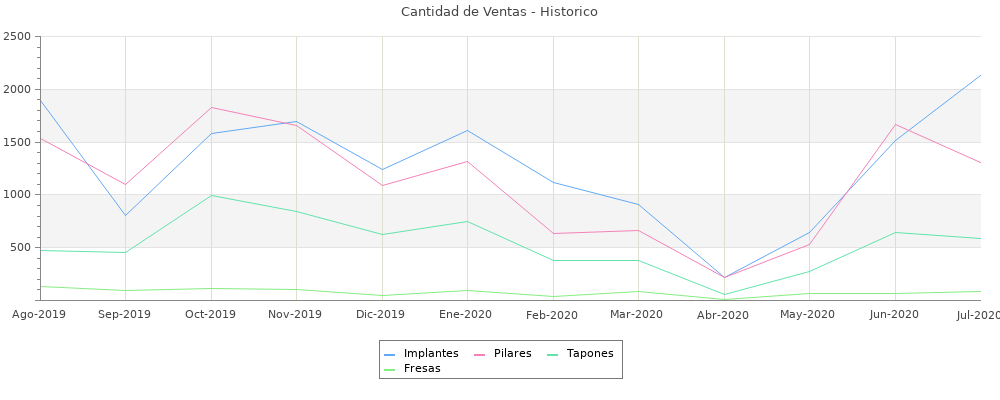
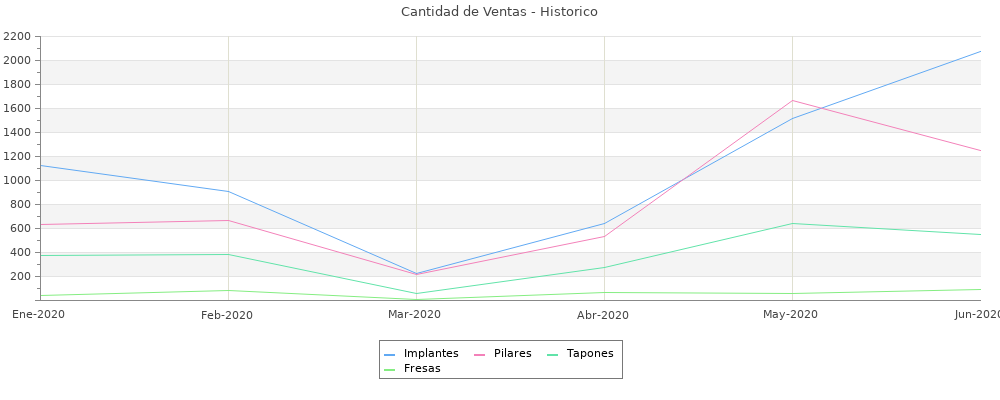
git-svn-id: file:///C/Users/yo/Documents/repositorio_svn_ondontopc/trunk@254 96c2d22d-f105-cb40-99ec-877b05c57555

diff --git a/web/css/cssmenu_b.css b/web/css/cssmenu_b.css
@@ -9,7 +9,8 @@
 		font-weight:bold;
 		width:100%;
 		background:#0087ca;
-		text-align: -webkit-center;
+		display: flex;
+		justify-content: center;		
 		}
 	#nav ul{
 		height:35px;

diff --git a/web/css/inicio.css b/web/css/inicio.css
@@ -77,7 +77,7 @@ header{
 	font-size: 1.3em;
 }
 
-.sf_admin_text{
+.sf_admin_text, .sf_admin_date {
 	font-size: 1.2em;
 }
 

diff --git a/apps/web/modules/listcob/actions/actions.class.php b/apps/web/modules/listcob/actions/actions.class.php
@@ -13,18 +13,18 @@ require_once dirname(__FILE__).'/../lib/listcobGeneratorHelper.class.php';
  */
 class listcobActions extends autoListcobActions
 {  
-  public function executeListImprimir(sfWebRequest $request){
-    $filtro = new ListadoCobrosFormFilter();
-    $consulta = $filtro->buildQuery($this->getFilters());
-    $listado = $consulta->execute();
+  // public function executeListImprimir(sfWebRequest $request){
+    // $filtro = new ListadoCobrosFormFilter();
+    // $consulta = $filtro->buildQuery($this->getFilters());
+    // $listado = $consulta->execute();
     
-    $dompdf = new DOMPDF();
-    $dompdf->load_html($this->getPartial("imprimir", array("listado" => $listado)));
-    $dompdf->set_paper('A4','landscape');
-    $dompdf->render();
-    $dompdf->stream("listado_cobros.pdf");    
-    return sfView::NONE;
-  }
+    // $dompdf = new DOMPDF();
+    // $dompdf->load_html($this->getPartial("imprimir", array("listado" => $listado)));
+    // $dompdf->set_paper('A4','landscape');
+    // $dompdf->render();
+    // $dompdf->stream("listado_cobros.pdf");    
+    // return sfView::NONE;
+  // }
   
   public function executeFilter(sfWebRequest $request)
   {

diff --git a/apps/web/modules/listcob/templates/filterSuccess.php b/apps/web/modules/listcob/templates/filterSuccess.php
@@ -14,16 +14,8 @@
   
   <div id="sf_admin_content">
     
-      <div class="sf_admin_actions_block floatleft">
-      	<a tabindex="0" href="#sf_admin_actions_menu" class="fg-button fg-button-icon-right ui-widget ui-state-default ui-corner-all" id="sf_admin_actions_button">
-      	  <span class="ui-icon ui-icon-triangle-1-s"></span>
-      	  <?php echo __('Actions', array(), 'sf_admin') ?>
-      	</a>
-      	<div id="sf_admin_actions_menu" class="ui-helper-hidden fg-menu fg-menu-has-icons">
-      		<ul class="sf_admin_actions" id="sf_admin_actions_menu_list">
-      			<?php include_partial('listcob/list_actions', array('helper' => $helper)) ?>
-      		</ul>
-      	</div>
+      <div class="sf_admin_actions_block" style="font-family: Lucida Grande, Lucida Sans, Arial, sans-serif; margin:0px">
+        <?php include_partial('listcob/list_actions', array('helper' => $helper)) ?>
       </div>
 
       <?php include_partial('listcob/list_filter', array('pager' => $pager, 'sort' => $sort, 'helper' => $helper, 'hasFilters' => $hasFilters)) ?>

diff --git a/lib/model/doctrine/CobroTable.class.php b/lib/model/doctrine/CobroTable.class.php
@@ -20,14 +20,9 @@ class CobroTable extends Doctrine_Table
     public function retrieveConJoins(Doctrine_Query $q){
 			$id = sfContext::getInstance()->getUser()->getGuardUser()->getId();
       $rootAlias = $q->getRootAlias();
-      //$q->leftJoin($rootAlias . '.Resumen res');
       $q->leftJoin($rootAlias . '.Cliente c');
 			$q->leftJoin('c.Zona z');
 			$q->leftJoin('z.UsuarioZona uz');	
-      // $q->leftJoin($rootAlias . '.Tipo t');
-      // $q->leftJoin($rootAlias . '.Moneda m');
-      // $q->leftJoin($rootAlias . '.Banco b');
-			$q->andWhere('uz.usuario = '.$id);
       $q->orderBy($rootAlias . '.fecha desc');
       return $q;
     }    

diff --git a/plugins/sfAdminThemejRollerPlugin/data/generator/sfDoctrineModule/jroller/parts/imprimirAction.php b/plugins/sfAdminThemejRollerPlugin/data/generator/sfDoctrineModule/jroller/parts/imprimirAction.php
@@ -24,7 +24,7 @@
     $consulta = $this->buildQuery($this->getFilters());
     if ($p_imp_pagina) {
         $pagina = $this->getUser()->getAttribute('<?php echo $this->getModuleName() ?>.page', '1', 'admin_module')-1;
-        $limit = <?php echo !empty($this->config['list']['max_per_page'])?:30 ?>;
+        $limit = <?php echo isset($this->config['list']['max_per_page']) ? (integer) $this->config['list']['max_per_page'] : 20 ?>;
         $consulta->limit($limit)->offset($pagina * $limit);
     }
     return $consulta->execute();

diff --git a/apps/web/modules/ctacte/templates/_list_td_tabular.php b/apps/web/modules/ctacte/templates/_list_td_tabular.php
@@ -3,7 +3,7 @@
   <?php echo get_partial('ctacte/concepto', array('type' => 'list', 'cta_cte' => $cta_cte)) ?>
 </td>
 <td class="sf_admin_date sf_admin_list_td_fecha">
-  <?php echo false !== strtotime($cta_cte->getFecha()) ? format_date($cta_cte->getFecha(), "dd/MM/yyyy") : '&nbsp;' ?>
+  <?php echo false !== strtotime($cta_cte->getFecha()) ? implode('/', array_reverse(explode('-', $cta_cte->getFecha()))) : '&nbsp;' ?>
 </td>
 <td class="sf_admin_text sf_admin_list_td_cliente">
   <?php echo $cta_cte->getCliente() ?>

diff --git a/lib/model/doctrine/Categoria.class.php b/lib/model/doctrine/Categoria.class.php
@@ -131,7 +131,7 @@ class Categoria extends BaseCategoria
 				and r.tipofactura_id <> 4
 				AND l.externo = 0
 				AND l.activo = 1 
-				and r.fecha between date_format(date_sub(curdate(), interval 1 year), '%Y-%m-01') and last_day(date_sub(curdate(), interval 1 month))
+				and r.fecha between date_format(date_sub(curdate(), interval 6 month), '%Y-%m-01') and last_day(date_sub(curdate(), interval 1 month))
 			group by
 				anio, mes
 			order by

diff --git a/apps/web/modules/catprod/templates/_tablero.php b/apps/web/modules/catprod/templates/_tablero.php
@@ -21,7 +21,7 @@
           $nombre_mes[10] = 'Oct';
           $nombre_mes[11] = 'Nov';
           $nombre_mes[12] = 'Dic';
-          for($i=12;$i>=1;$i--){
+          for($i=6;$i>=1;$i--){
             list($anio, $mes) = explode('-', date("Y-n", strtotime("-$i months")));
             $x_labels[] = $nombre_mes[$mes].'-'.$anio;
             echo '<th class="sf_admin_text ui-state-default ui-th-column">'.$nombre_mes[$mes].'-'.$anio.'</th>';

diff --git a/lib/model/doctrine/ListadoCobrosTable.class.php b/lib/model/doctrine/ListadoCobrosTable.class.php
@@ -23,9 +23,7 @@ class ListadoCobrosTable extends Doctrine_Table
       $q->leftJoin($rootAlias . '.Cliente c');
 			$q->leftJoin('c.Zona z');
 			$q->leftJoin('z.UsuarioZona uz');	
-      $q->leftJoin($rootAlias . '.TipoCliente t');
       $q->leftJoin($rootAlias . '.TipoCobro tc');
-      $q->leftJoin($rootAlias . '.Moneda m');
 			$q->andWhere('uz.usuario = '.$id);
       $q->orderBy($rootAlias . '.fecha desc');
       return $q;
